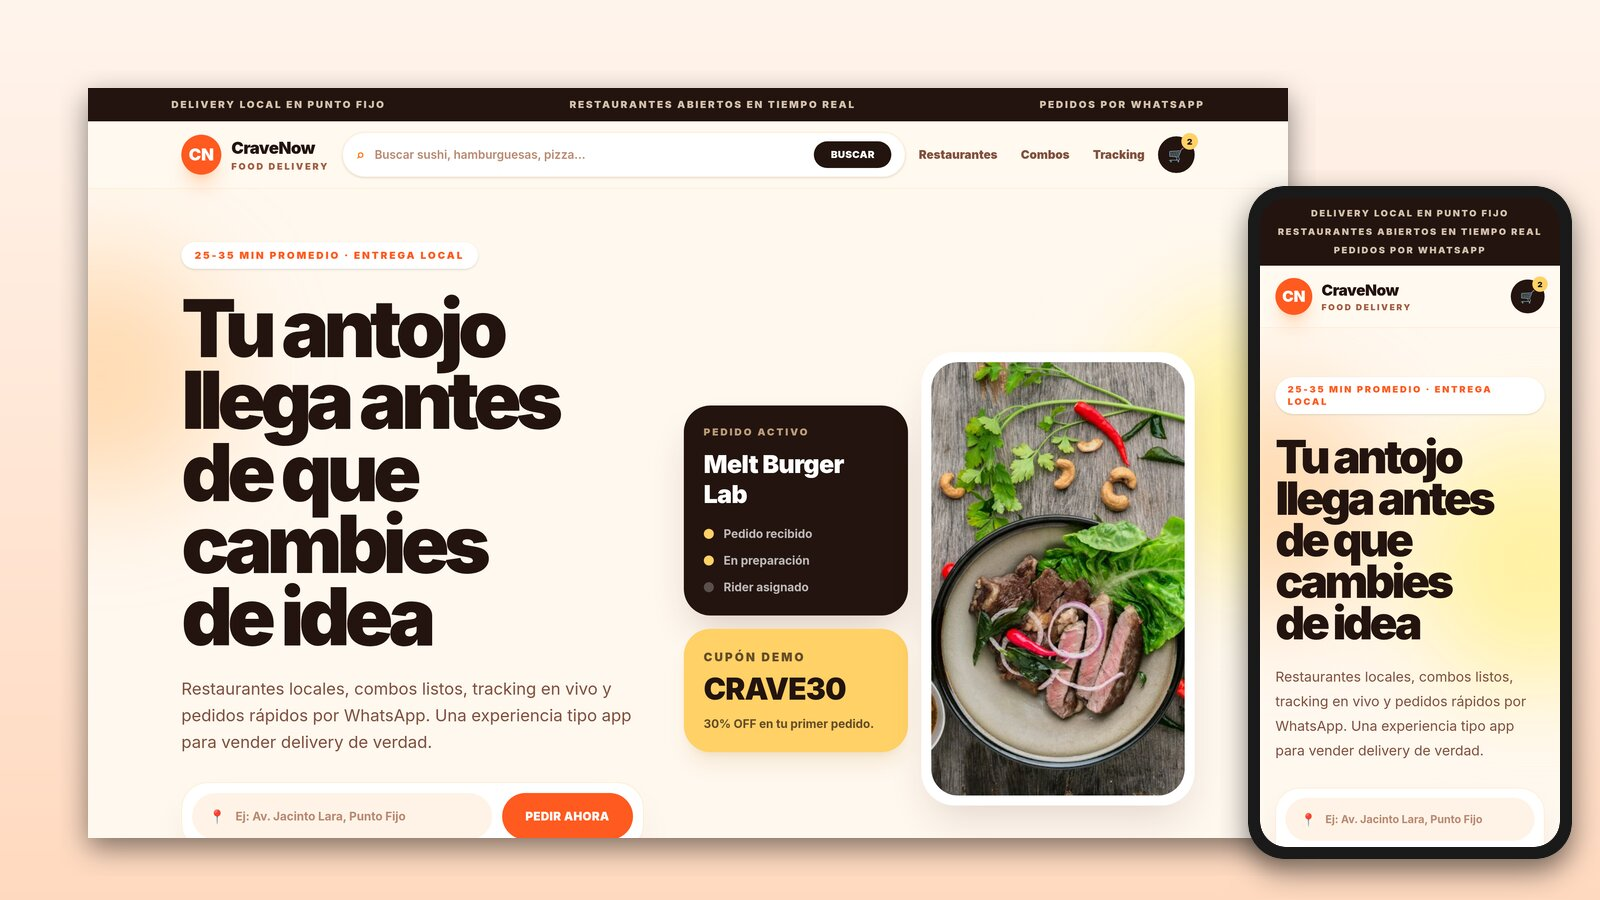
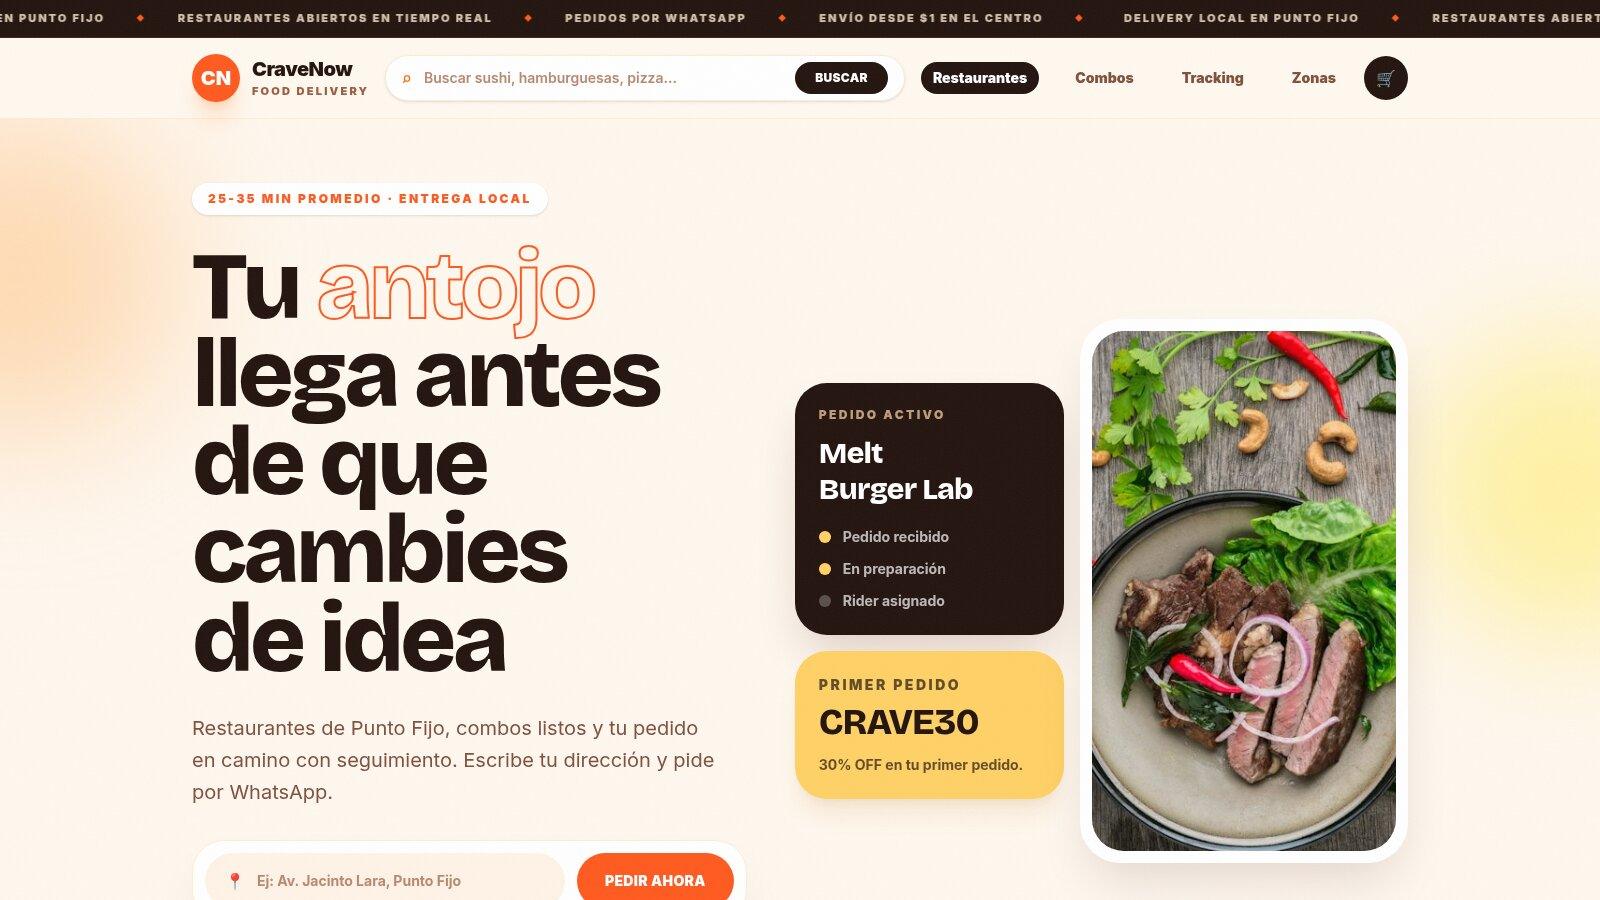
docs: portada nueva tras motion y mapa

diff --git a/README.md b/README.md
@@ -4,7 +4,7 @@
 
 [![CI](https://github.com/AvilaCarlosDev/landing-delivery-demo/actions/workflows/ci.yml/badge.svg)](https://github.com/AvilaCarlosDev/landing-delivery-demo/actions/workflows/ci.yml) [![Licencia: MIT](https://img.shields.io/badge/licencia-MIT-green.svg)](LICENSE) [![Demo en vivo](https://img.shields.io/badge/demo%20en%20vivo-Vercel-000?logo=vercel)](https://agencia-web-delivery-demo.vercel.app)
 
-<a href="https://agencia-web-delivery-demo.vercel.app"><img src="docs/portada.jpg" alt="CraveNow en la computadora y en el teléfono: portada con buscador, pedido activo y cupón" width="100%"></a>
+<a href="https://agencia-web-delivery-demo.vercel.app"><img src="docs/portada.jpg" alt="CraveNow: portada con buscador de restaurantes, pedido activo y cupón de primer pedido" width="100%"></a>
 
 Sitio web de demostración, de una sola página: marketplace de delivery con restaurantes, combos, seguimiento de pedido y pedidos por WhatsApp.
 

diff --git a/README.en.md b/README.en.md
@@ -4,7 +4,7 @@
 
 [![CI](https://github.com/AvilaCarlosDev/landing-delivery-demo/actions/workflows/ci.yml/badge.svg)](https://github.com/AvilaCarlosDev/landing-delivery-demo/actions/workflows/ci.yml) [![License: MIT](https://img.shields.io/badge/license-MIT-green.svg)](LICENSE) [![Live demo](https://img.shields.io/badge/live%20demo-Vercel-000?logo=vercel)](https://agencia-web-delivery-demo.vercel.app)
 
-<a href="https://agencia-web-delivery-demo.vercel.app"><img src="docs/portada.jpg" alt="CraveNow on desktop and phone: hero with search, active order and coupon" width="100%"></a>
+<a href="https://agencia-web-delivery-demo.vercel.app"><img src="docs/portada.jpg" alt="CraveNow hero with restaurant search, active order and first-order coupon" width="100%"></a>
 
 Demo one-page website for a food delivery marketplace: restaurants, combos, order tracking and orders by WhatsApp.
 
